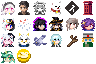
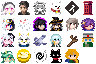
v0.9.6.0：完善about

Changed region(s): [[0.3438, 0.75, 0.8438, 1.0]]

diff --git a/core/src/main/java/com/shatteredpixel/shatteredpixeldungeon/scenes/MLPDAboutScene.java b/core/src/main/java/com/shatteredpixel/shatteredpixeldungeon/scenes/MLPDAboutScene.java
@@ -126,6 +126,18 @@ public class MLPDAboutScene extends PixelScene {
                 left = 16;
                 top = 48;
                 break;
+            case "OMICRONG":
+                left = 32;
+                top = 48;
+                break;
+            case "ROBEIRI":
+                left = 48;
+                top = 48;
+                break;
+            case "NXHY":
+                left = 64;
+                top = 48;
+                break;
         }
         return new Image(Assets.Interfaces.ABOUT_ICONS,left,top,16,16);
     }
@@ -388,7 +400,7 @@ public class MLPDAboutScene extends PixelScene {
         //*** 运营宣发（四人） ***
         CreditsBlock openration1 = new CreditsBlock(true, 0x4ecdc4,
                 "运 营 宣 发",
-                Icons.BACKPACK.get(),
+                About_Icons("ROBEIRI"),
                 "罗贝里",
                 null,
                 null);
@@ -397,7 +409,7 @@ public class MLPDAboutScene extends PixelScene {
 
         CreditsBlock openration2 = new CreditsBlock(true, 0xa884ec,
                 "",
-                About_Icons("JISHEN"),
+                About_Icons("NXHY"),
                 "那些回忆",
                 null,
                 null);
@@ -416,7 +428,7 @@ public class MLPDAboutScene extends PixelScene {
 
         CreditsBlock openration4 = new CreditsBlock(true, 0xa884ec,
                 "",
-                About_Icons("JISHEN"),
+                About_Icons("OMICRONG"),
                 "omicronrg9",
                 null,
                 null);
